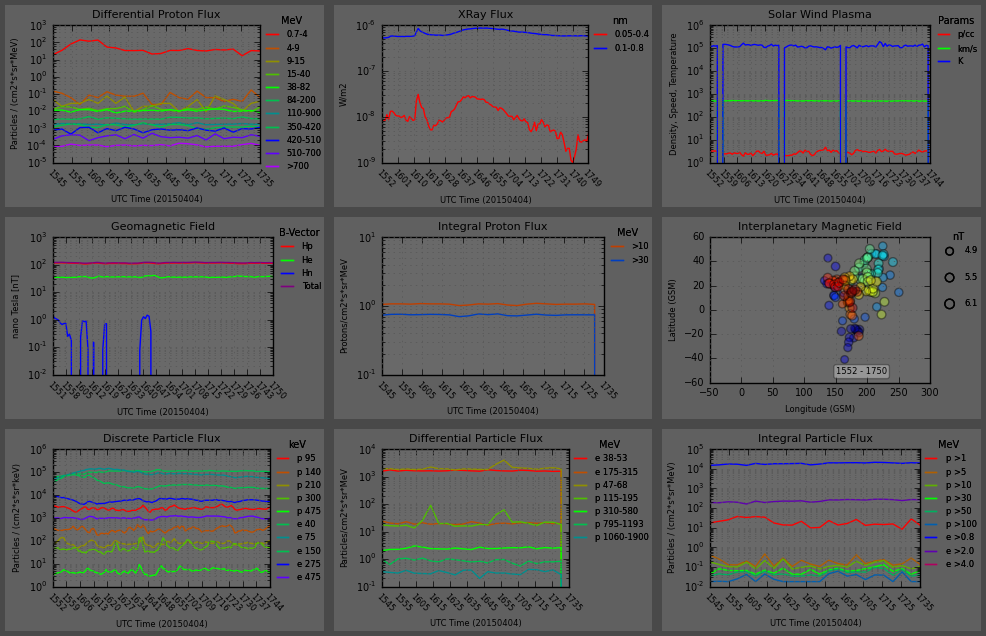
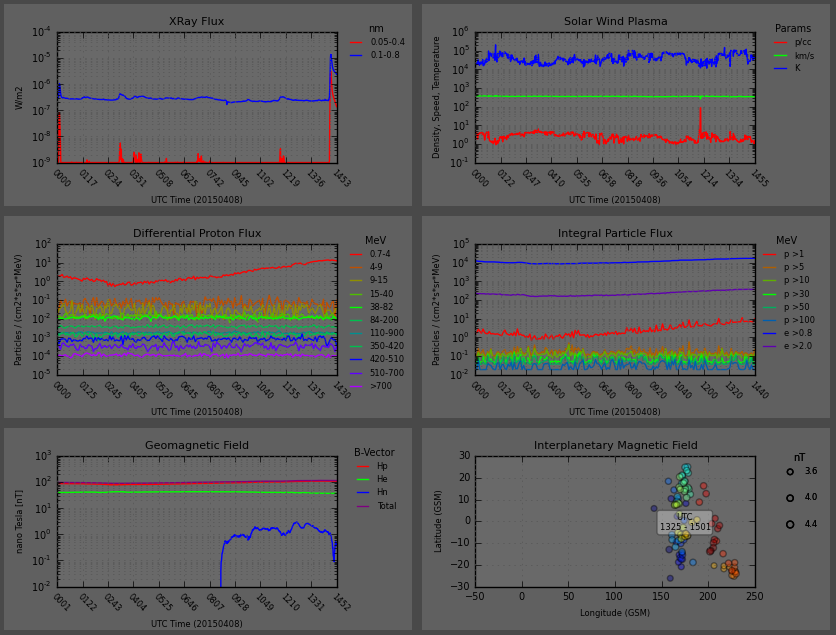
Updated screenshots, updated version build.

Changed region(s): [[0.0, 0.0, 0.9952, 0.6583], [0.0, 0.6882, 0.9952, 0.9874]]

diff --git a/src/colors_and_globals.py b/src/colors_and_globals.py
@@ -4,14 +4,14 @@
 # the interface, but that would require creating a type of HEX calculating
 # algorithm for each plot trace, etc
 ###########################################################################
-colorMode = "Light"
+colorMode = "Dark"
 
 ###########################################################################
 # Version of the application
 ###########################################################################
-progversion = "2.0.7"
-progbuild = "2"
-progdate = "20150407"
+progversion = "2.1.0"
+progbuild = "1"
+progdate = "20150408"
 
 ###########################################################################
 # Data source of the application
@@ -20,8 +20,8 @@ progdate = "20150407"
 # 'Yesterday'
 # 'S=<YYYY/MM/DD-HH:MM>, E=<YYYY/MM/DD-HH:MM>'
 ###########################################################################
-datasource = "Current"
-# datasource = "Today"
+# datasource = "Current"
+datasource = "Today"
 # datasource = "Yesterday"
 
 ###########################################################################
